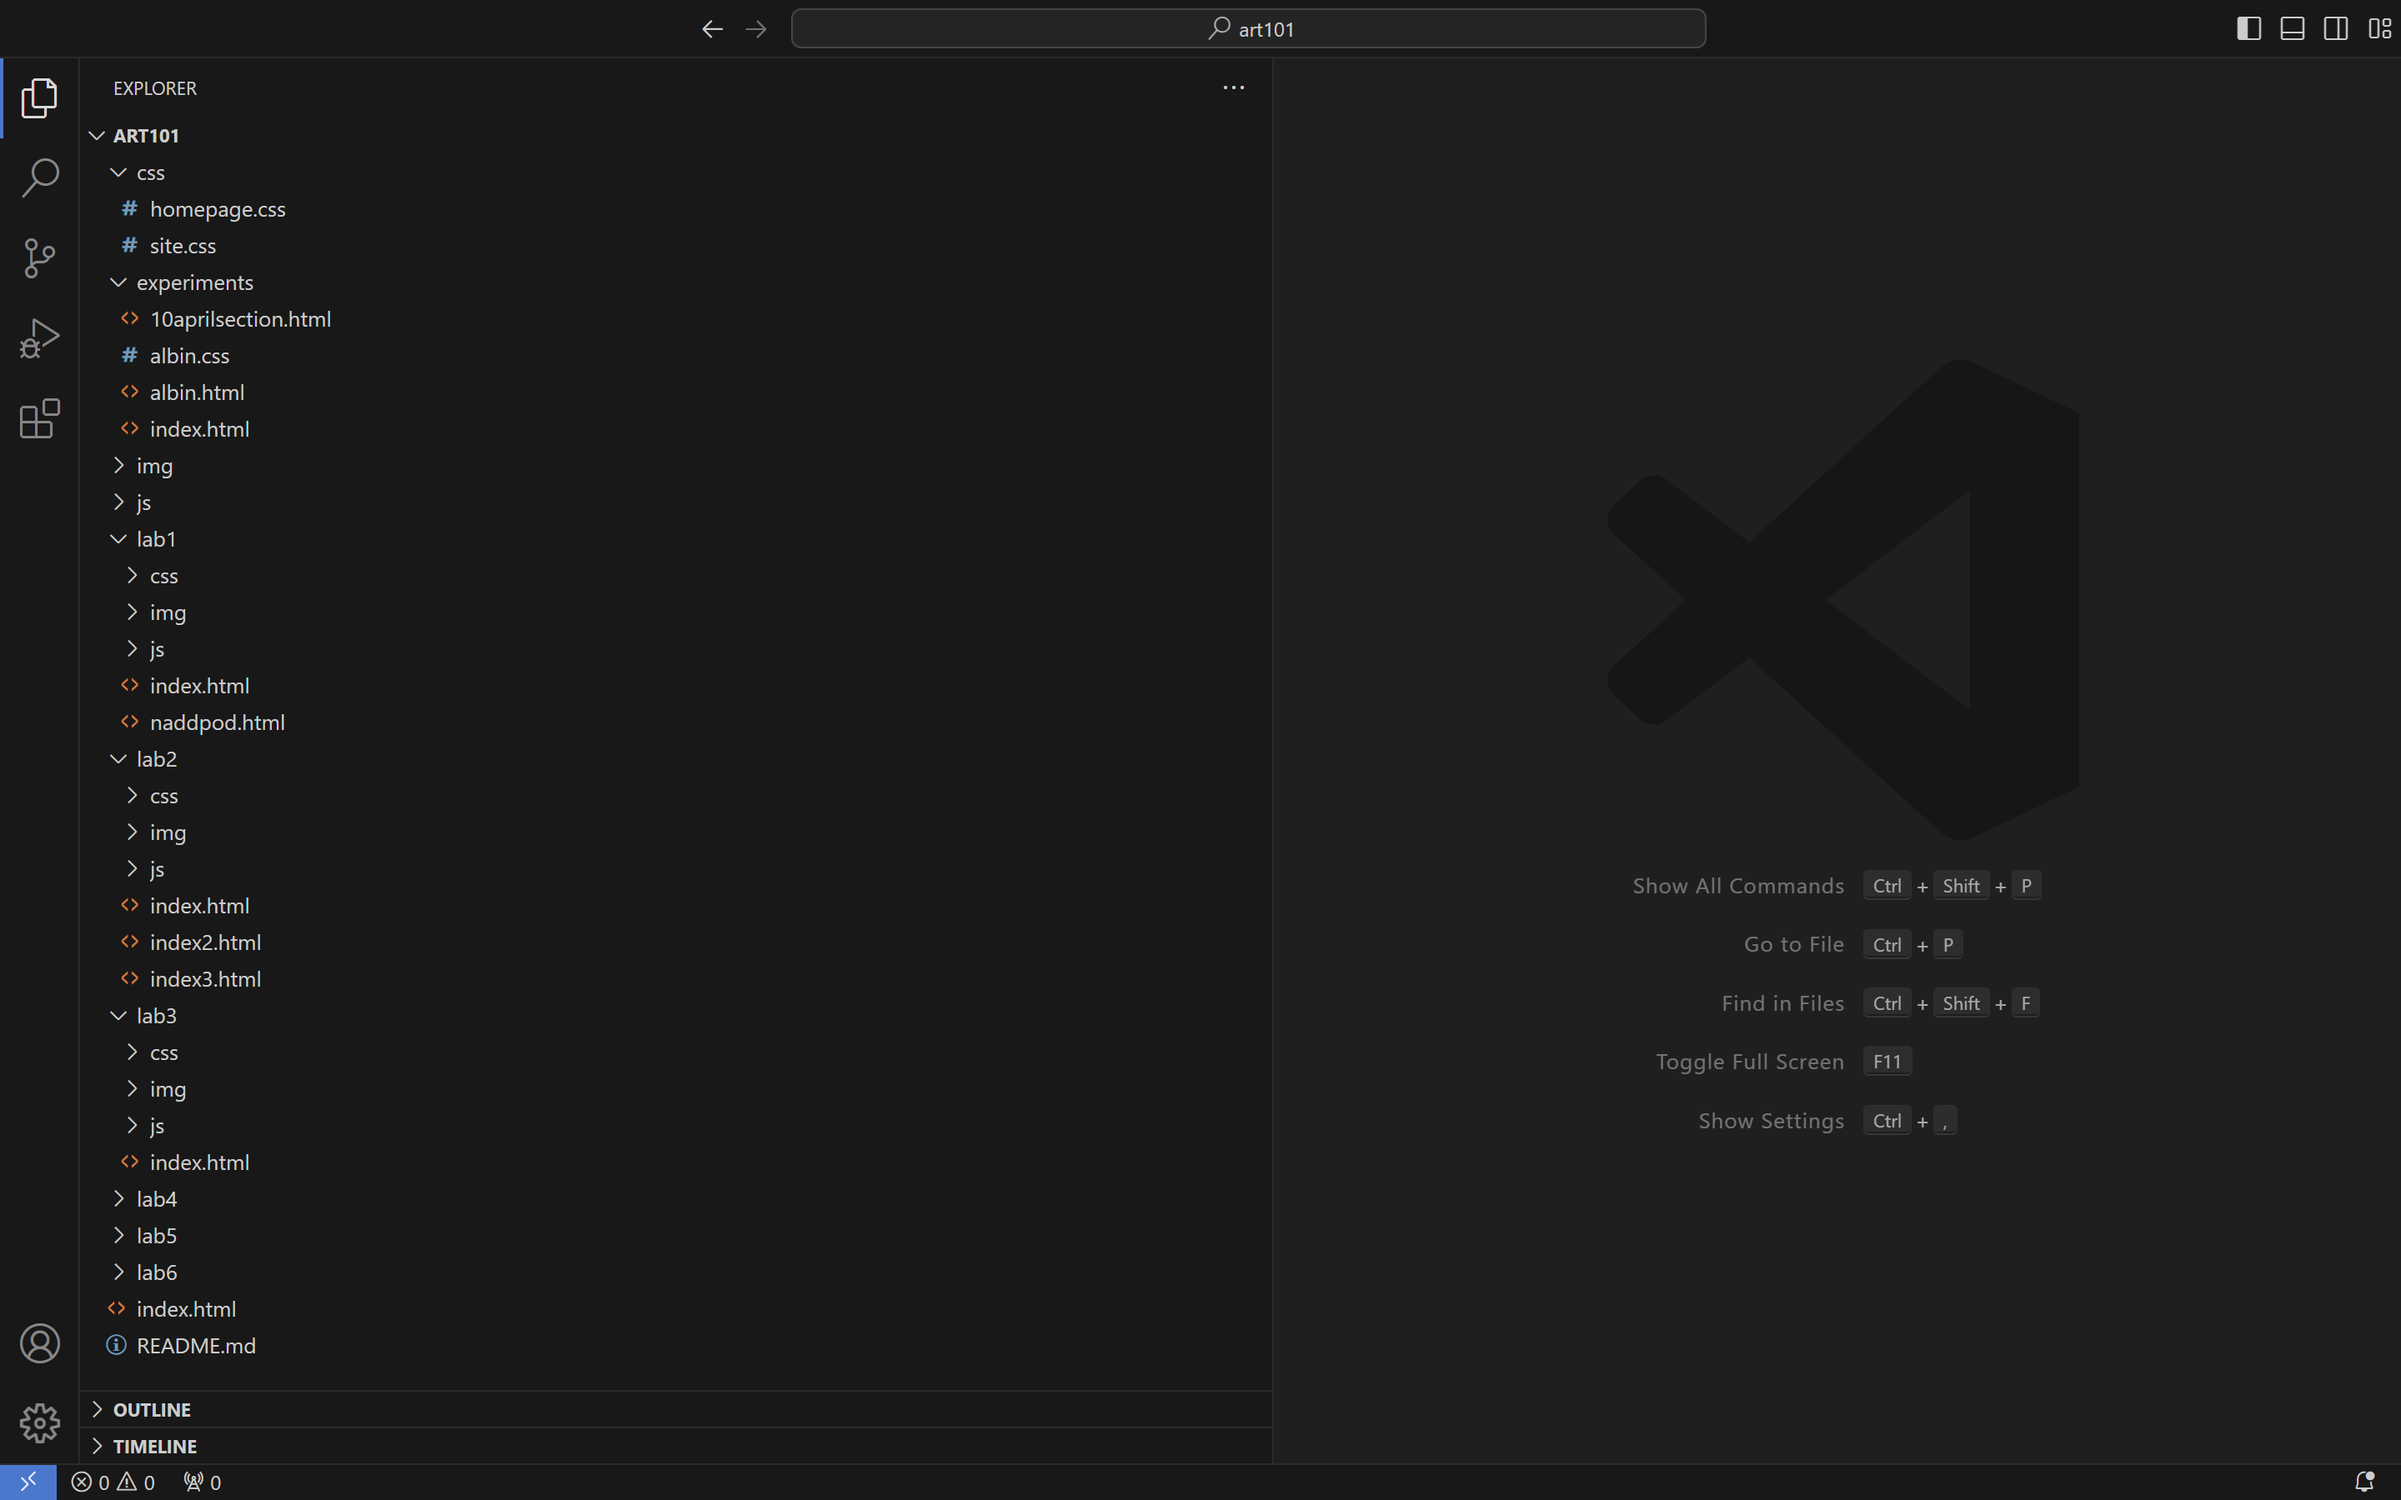
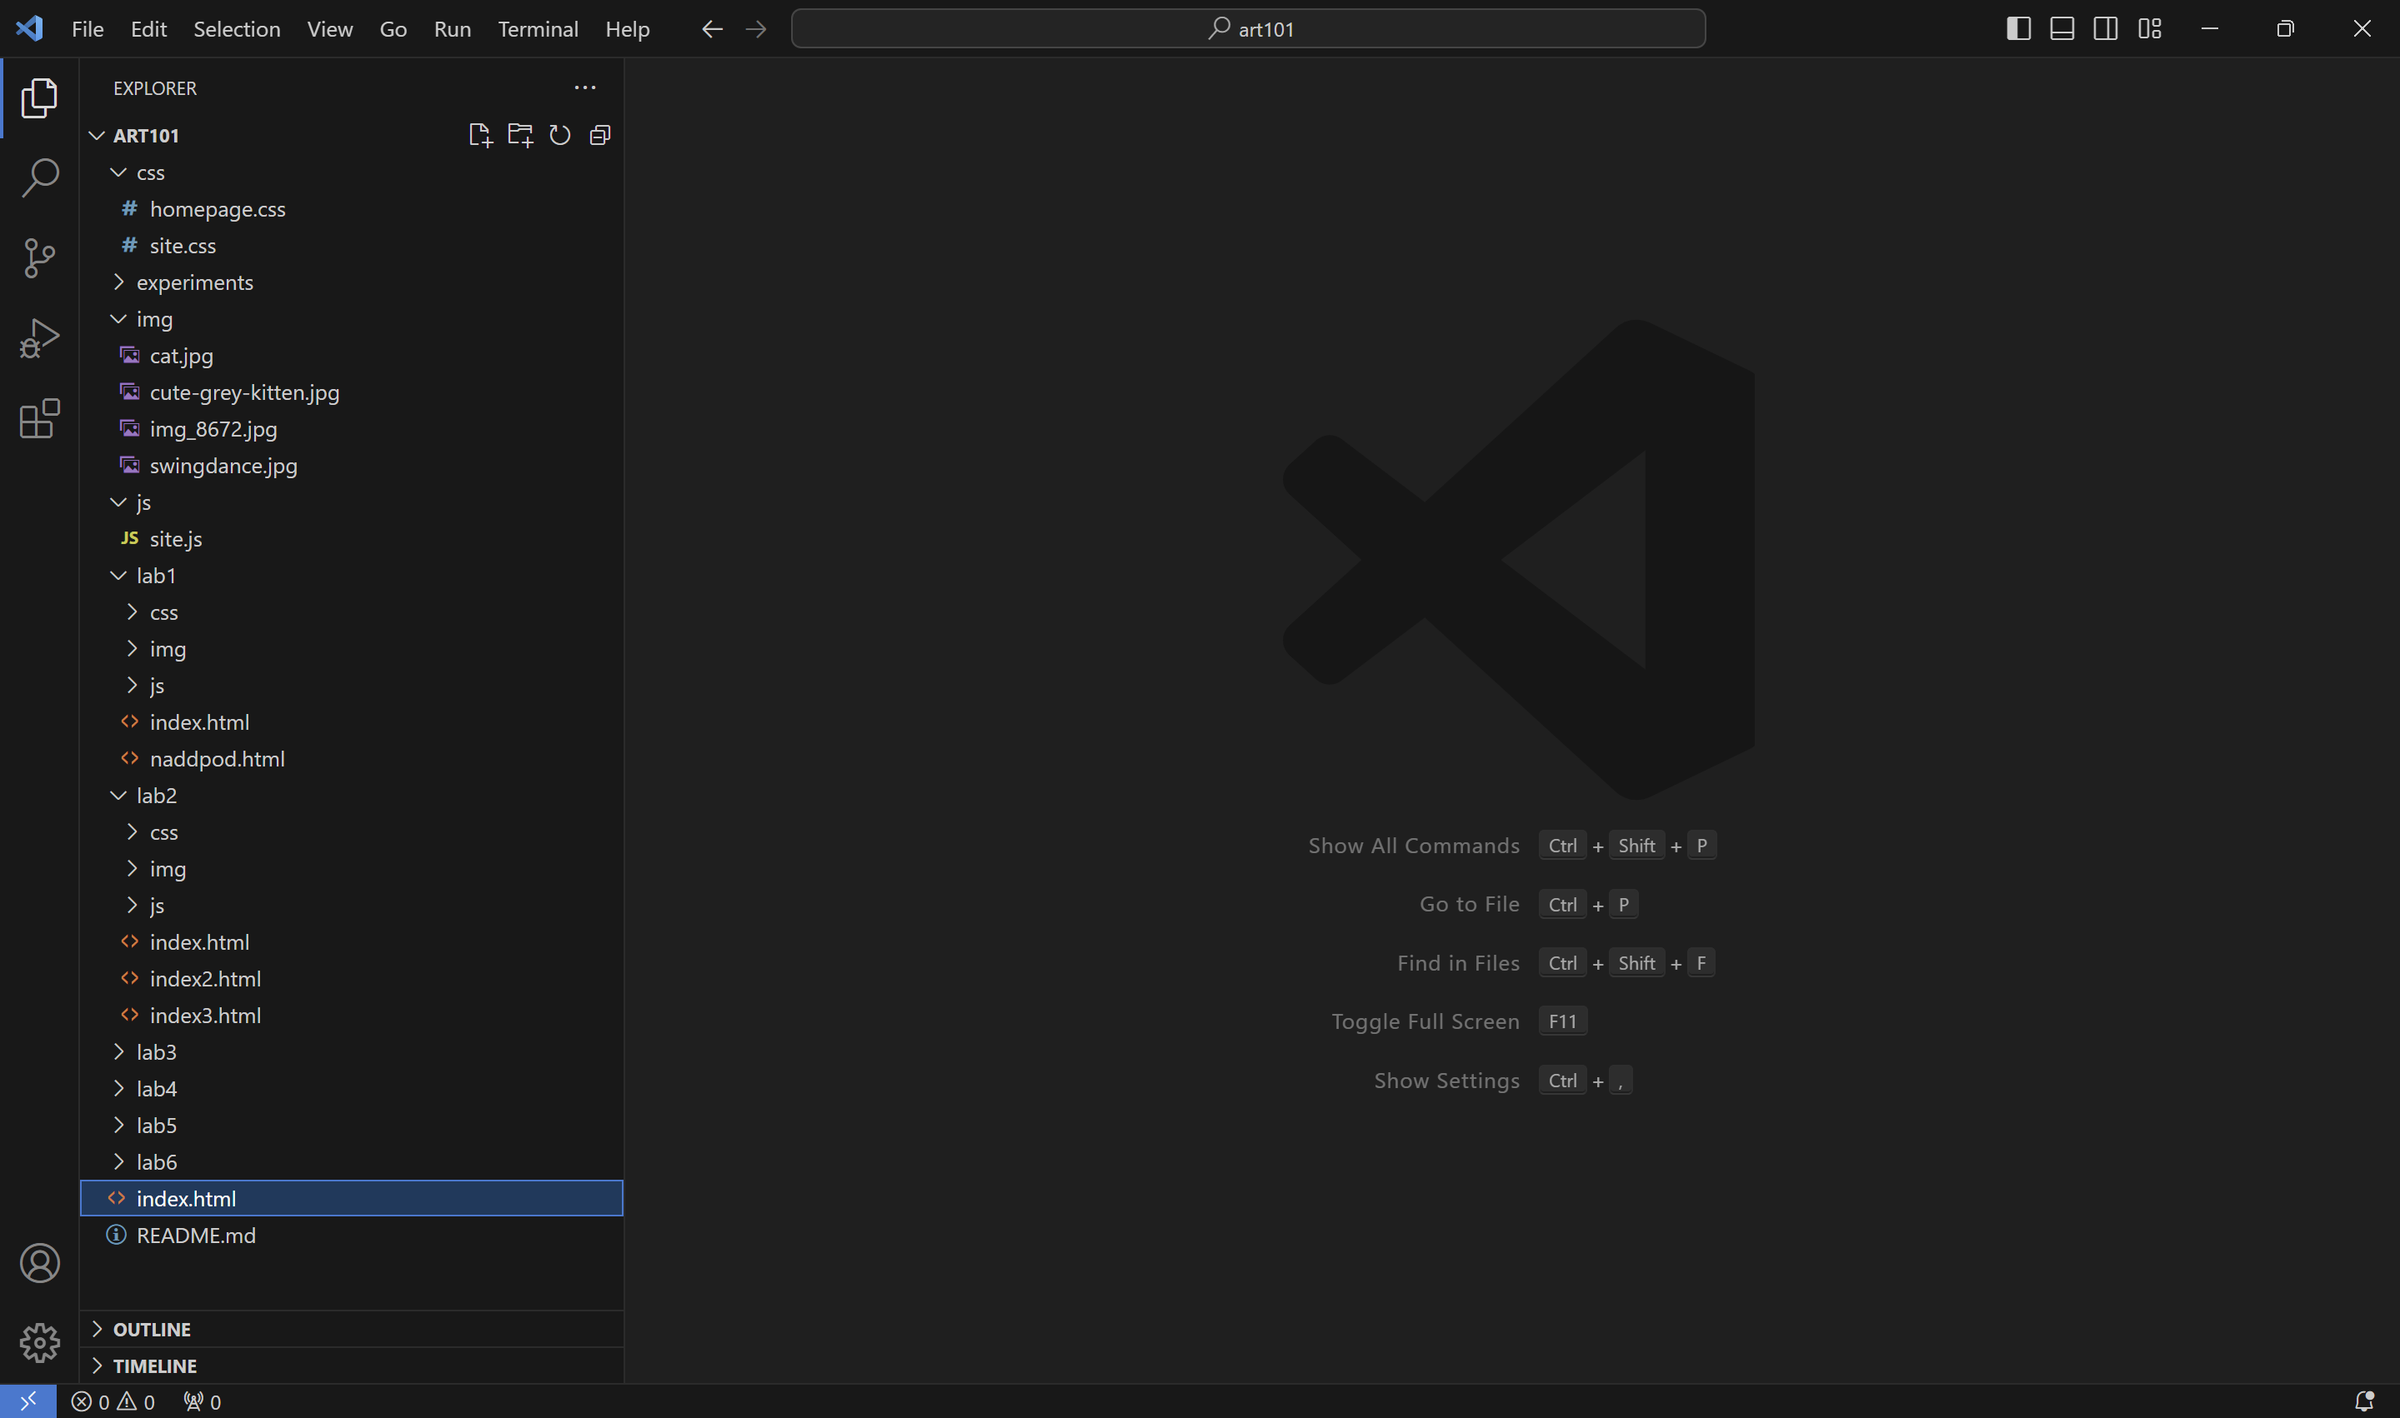
lowercase-ify

diff --git a/index.html b/index.html
@@ -26,10 +26,10 @@
 			<div class="minor-section">
 				<h2>About Me</h2>
 					<p>Hi y'all! :) I'm L, heres the quick run down on my whole deal: I'm from Singapore, I like to swing dance, I am a #1 bus ride enjoyer and I have a manic obsession with the actual play podcast NADDPOD that is slowly taking over my life</p>
-					<img class="swing-photo" src="./img/swingdance.JPG">
-					<img class="frogbus-photo" src="./img/IMG_8672.jpg">
+					<img class="swing-photo" src="./img/swingdance.jpg">
+					<img class="frogbus-photo" src="./img/img_8672.jpg">
 					<p>And here's a picture of my <em>(roommate's)</em> cat!</p>
-					<img class="mycat-photo" src="../art101/img/cat.JPG">
+					<img class="mycat-photo" src="../art101/img/cat.jpg">
 					<!-- other reminder to self! em for italics, strong for bold -->
 				</div>
 		</section>

diff --git a/lab2/index3.html b/lab2/index3.html
@@ -19,7 +19,7 @@
         <p> My partner is Emily Belezzuoli. She does tennis (not badminton!). 
             She is doing the art + film major 3 year grind. She can do photos real good </p>
 
-        <img class="emilyme" src="../lab2/img/Screenshot 2024-04-11 161500.png">
+        <img class="emilyme" src="../lab2/img/screenshit.png">
 
         <p> <a href="../index.html"> Back to home! </a> </p>
     </div>
